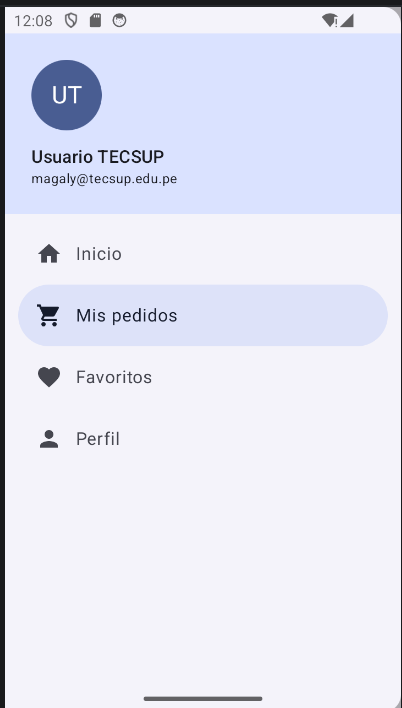
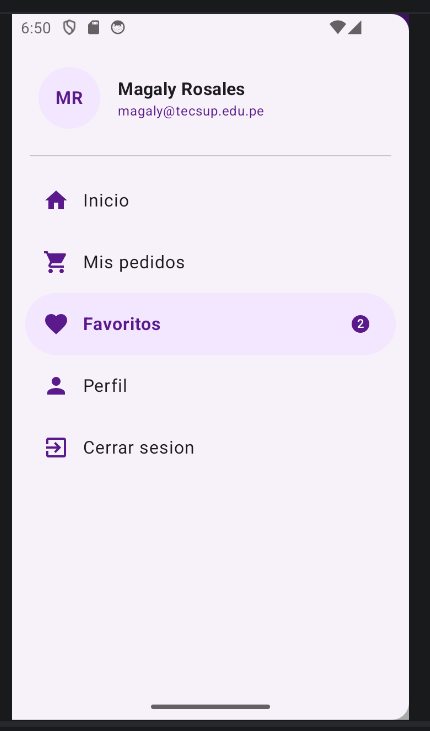
docs(IA): README con capturas y prompt de la mejora con IA

diff --git a/semana6/README.md b/semana6/README.md
@@ -1,11 +1,35 @@
-# TECSUP Store - GLAB-S06
-
-Menú y navegación en Jetpack Compose.
-
-## Funcionalidades
-- DropdownMenu en la tarjeta de producto
-- NavigationDrawer con encabezado e ítem activo
+# TECSUP Store -  Fase 2 (Mejora con IA)
 
 ## Capturas
-![DropdownMenu](capturas/1.png)
-![Drawer](capturas/2.png)
+
+![Estado](capturas/1.png)
+![DropdownMenu](capturas/2.png)
+![Badge](capturas/3.png)
+![Drawer](capturas/4.png)
+
+
+## Prompt utilizado
+Estás integrado en Android Studio y tienes acceso a mi proyecto TecsupStore (Kotlin, Jetpack Compose, Material 3, package com.rosales.tecsupstore). Modifica directamente los archivos del proyecto, no me des solo código suelto.
+
+Archivos relevantes: AppNavegacion.kt, AppDrawer.kt, PantallaInicio.kt, TarjetaProducto.kt, DatosEjemplo.kt y Producto.
+
+Ya tengo:
+- Una lista de productos donde cada tarjeta tiene un ícono de 3 puntos que abre un DropdownMenu con la opción "Favoritos".
+- Un ModalNavigationDrawer con los ítems Inicio, Mis pedidos, Favoritos y Perfil.
+
+Mejora a implementar (adjunto imagen del enunciado de cómo debe quedar):
+Agrega un badge con contador en el ítem "Favoritos" del drawer, que muestre cuántos productos marcó el usuario como favorito desde el DropdownMenu de cada producto. Una acción en el DropdownMenu debe reflejarse visualmente en el Drawer.
+Requisitos funcionales:
+1. Usa un mutableStateListOf<Int> con los ids de los productos favoritos, elevado (state hoisting) al composable padre en AppNavegacion.kt, y pásalo hacia abajo a PantallaInicio, TarjetaProducto y AppDrawer. Si ya existe en el proyecto, reutilízalo y no lo dupliques.
+2. En el DropdownMenu de cada tarjeta, al pulsar "Favoritos": si el id del producto no está en la lista se agrega, si ya está se quita, y luego se cierra el menú.
+3. En el NavigationDrawerItem de "Favoritos" usa el parámetro badge con un Badge que muestre favoritos.size, visible solo cuando favoritos.size sea mayor que 0.
+Requisitos de estilo (seguir la imagen adjunta):
+4. Usa una paleta morada (primary morado oscuro, containers lilas claros) para que la app se parezca a la imagen.
+5. Barra superior morada con el título "TECSUP Store" y el subtítulo "Mas vendidos" en blanco.
+6. Tarjetas de producto con fondo lila claro, bordes redondeados, un cuadro con ícono de bolsa a la izquierda, nombre en negrita y precio en morado.
+7. DropdownMenu con bordes redondeados, íconos a la izquierda de cada opción (Favoritos, Compartir, Reportar) y divisores entre las opciones.
+8. Drawer con encabezado de avatar circular con iniciales, nombre y correo, un divisor, ítem activo resaltado en lila con texto morado en negrita, y el badge del contador en morado a la derecha del ítem "Favoritos".
+
+Restricciones: código simple, sin ViewModel, sin Hilt ni librerías extra. La funcionalidad existente (navegación, DropdownMenu, drawer) debe seguir funcionando igual; solo cambia lo necesario para el badge y los estilos. Al terminar, dime qué archivos modificaste.
+
+
